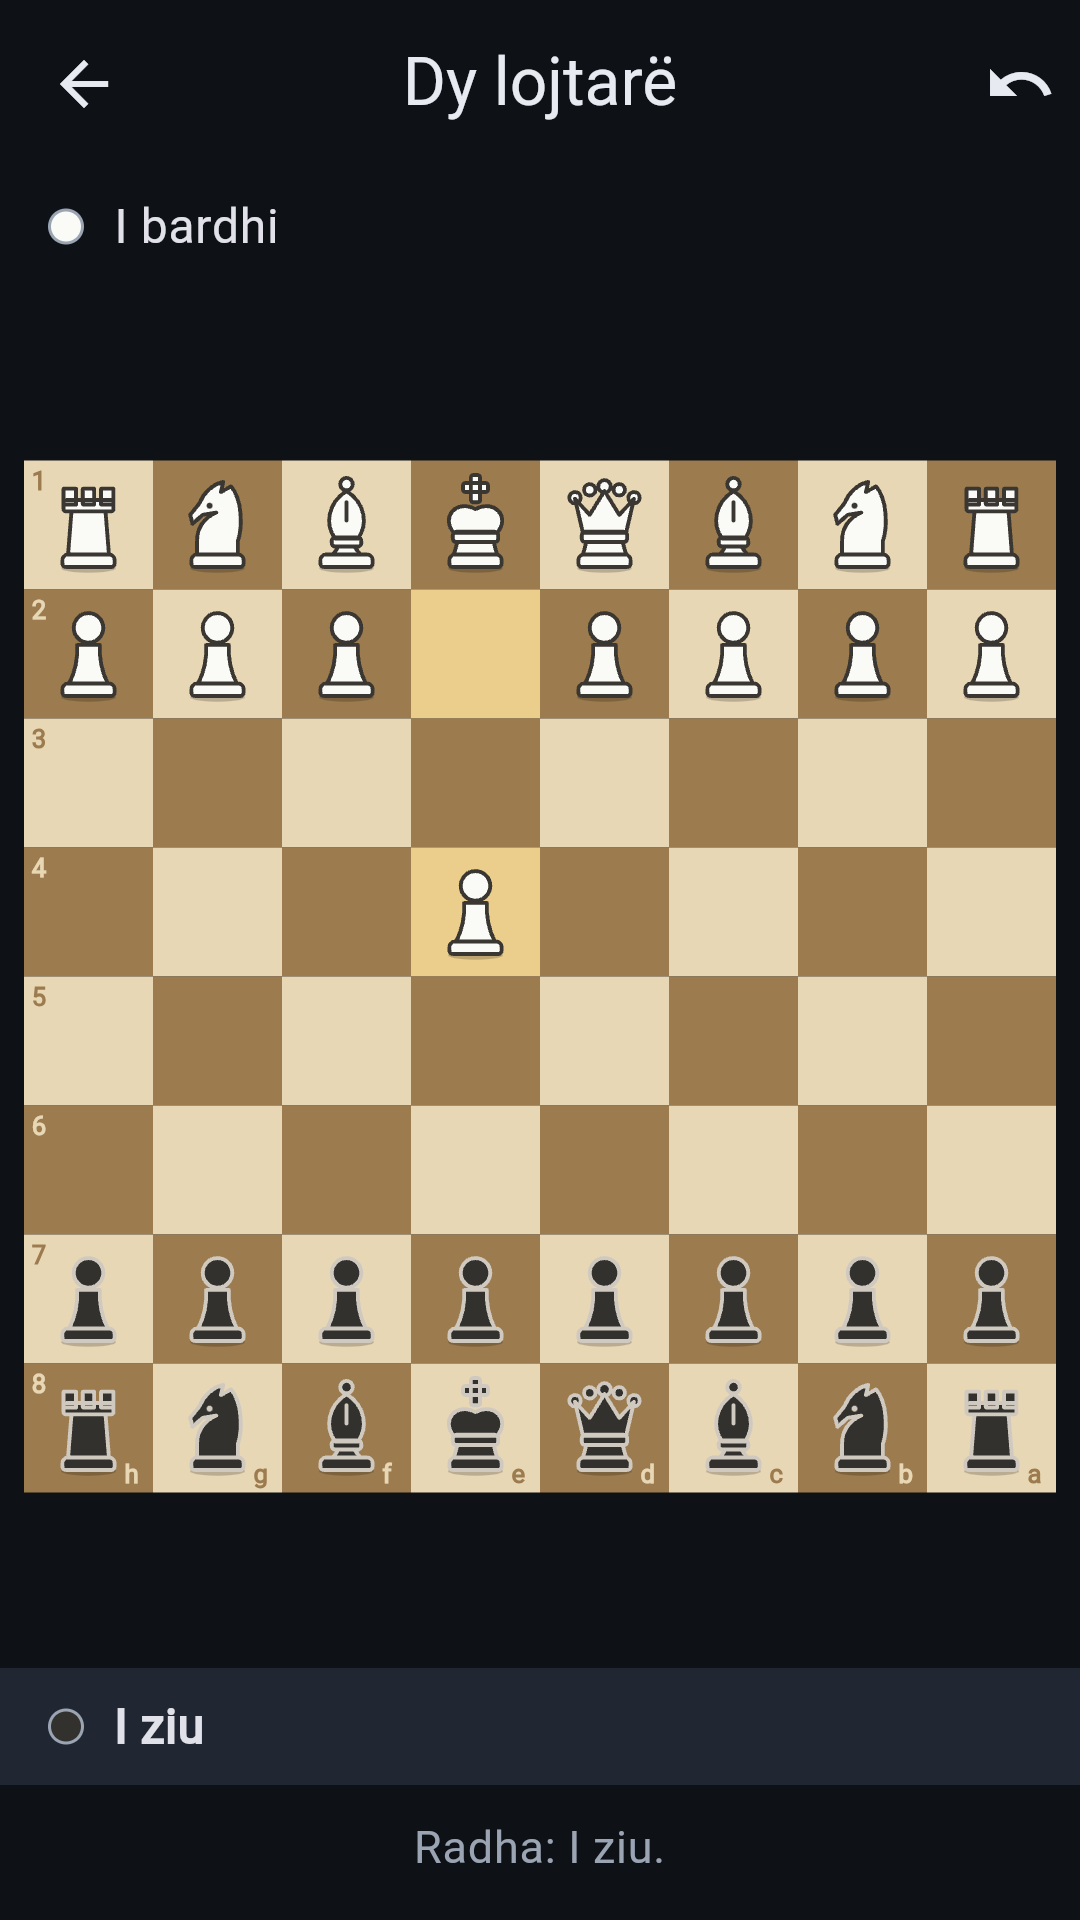
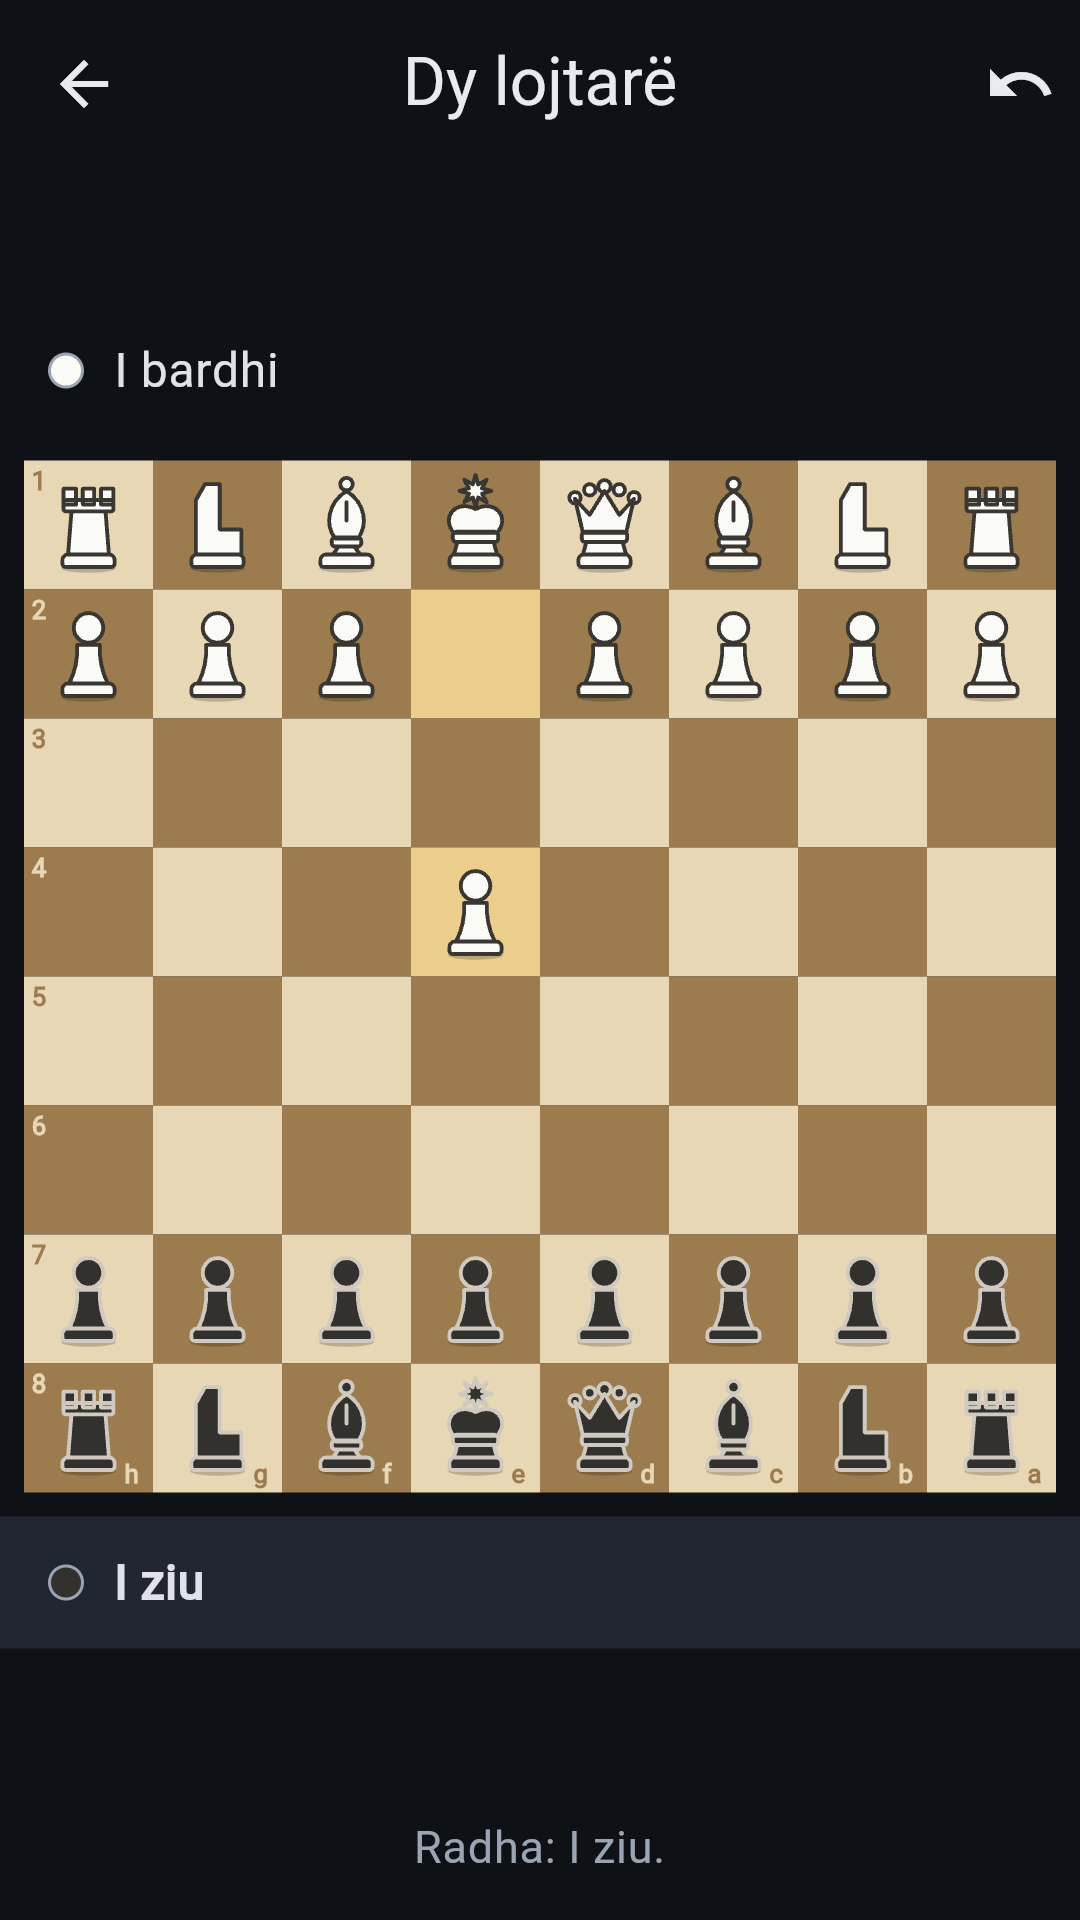
Mat! 2.3.0: figura pa qenie të gjalla, ikonë e re, kopjimi i PGN-së
🕌 Katër vende mbanin figura që nuk duhet të dalin me emrin e autorit:

1. **Mbreti kishte një KRYQ** mbi kurorë — shenja fetare e një feje tjetër,
   e vizatuar me dorë te «_king()». Tani mban yllin tetëcepësh (shems).
2. **Kalorësi ishte kokë kali me SY** (një rreth i vizatuar veç te «_details»).
   Tani është vetë lëvizja: dy hapa lart, një anash. Mbetet e vetmja siluetë
   asimetrike te tabela, ndaj njihet edhe te 36 pikselë.
3. **Ikona e Play-it ishte glifi ♞** — kokë kali me sy e vrimë hunde, sa
   gjysma e ikonës. Tani është mbreti me yll: aplikacioni quhet «Mat!», dhe
   mati është mbreti. Kalorësi i ri, i vetëm në një kuti 48-pikselëshe,
   lexohej si shkronjë «L», jo si shah.
4. **Ikonat e menysë** ishin «smart_toy» (fytyrë roboti, me sy e gojë) dhe
   «people» (dy bysta njerëzish) — pikërisht ato dilnin te pamjet e dyqanit.
   Tani një çip dhe dy shigjeta.

Grafika e veçorive titullohej ende «SpaceChess»; emri te Play është «Mat!»
që nga 30-07. Ishte vendi i pestë ku emri i vjetër kishte mbetur.

Pamjet e ekranit u rimorën nga aplikacioni i VËRTETË (Flutter web në Chrome
pa ekran, 1080×1920), pra tregojnë figurat e reja.

I ri: «Kopjo lëvizjet» te shiriti i sipërm — PGN me shtatë etiketat e
detyrueshme; trupi vjen nga «moveText» i motorit, që është tashmë i testuar.

diff --git a/spacechess_app/lib/board/pieces.dart b/spacechess_app/lib/board/pieces.dart
@@ -1,3 +1,5 @@
+import 'dart:math';
+
 import 'package:flutter/material.dart';
 import 'package:spacechess_engine/spacechess_engine.dart';
 
@@ -114,25 +116,39 @@ Path _bishop() {
   return p;
 }
 
+/// 🕌 Ishte një kokë kali, me sy. Tani është **vetë lëvizja e kalorësit**: dy
+/// hapa lart, një anash — një «L» e trashë, e pjerrët nga maja.
+///
+/// Nuk humb asgjë. Silueta mbetet e vetmja asimetrike te tabela, ndaj lexohet
+/// te 36 pikselë edhe më shpejt se koka e kalit (asnjë figurë tjetër nuk ka
+/// krah anash), dhe tani forma e shpjegon lëvizjen në vend që ta zbukurojë.
 Path _knight() {
-  // Një kokë kali e kthyer majtas. Vijat janë të pakta me qëllim: një siluetë e
-  // qartë lexohet te 36 pikselë, ku çdo hollësi bëhet baltë.
   final Path p = Path()
-    ..moveTo(32, 76)
-    ..lineTo(32, 64)
-    ..cubicTo(32, 52, 38, 44, 49, 39)
-    ..lineTo(37, 41)
-    ..lineTo(28, 49)
-    ..lineTo(26, 41)
-    ..lineTo(34, 31)
-    ..cubicTo(38, 21, 46, 14, 55, 12)
-    ..lineTo(53, 21)
-    ..lineTo(62, 16)
-    ..cubicTo(72, 28, 72, 52, 68, 64)
-    ..lineTo(68, 76)
+    ..moveTo(31, 76)
+    ..lineTo(31, 28)
+    ..lineTo(39, 14)
+    ..lineTo(52, 14)
+    ..lineTo(52, 54)
+    ..lineTo(71, 54)
+    ..lineTo(71, 76)
     ..close();
   _addBase(p);
   return p;
+}
+
+/// Yll tetëcepësh (*shems*), i vizatuar në drejtim orar që të bashkohet me
+/// nënshtigjet e tjera nën `PathFillType.nonZero` — një yll në drejtim të
+/// kundërt do të hapte vrimë në vend që të mbushte.
+Path _yllTetecepesh(Offset c, double jashtem, double brendshem) {
+  final Path p = Path();
+  const int cepa = 8;
+  for (int i = 0; i < cepa * 2; i++) {
+    final double r = i.isEven ? jashtem : brendshem;
+    final double kend = -pi / 2 + i * pi / cepa;
+    final Offset pika = Offset(c.dx + r * cos(kend), c.dy + r * sin(kend));
+    i == 0 ? p.moveTo(pika.dx, pika.dy) : p.lineTo(pika.dx, pika.dy);
+  }
+  return p..close();
 }
 
 Path _queen() {
@@ -163,10 +179,11 @@ Path _queen() {
 
 Path _king() {
   final Path p = Path()
-    // Kryqi mbi kurorë — e vetmja shenjë që e dallon mbretin nga mbretëresha
-    // me një vështrim.
-    ..addRRect(RRect.fromLTRBR(46, 6, 54, 30, const Radius.circular(2)))
-    ..addRRect(RRect.fromLTRBR(39, 13, 61, 21, const Radius.circular(2)))
+    // 🕌 Mbi kurorë rrinte një KRYQ. Tani rri ylli tetëcepësh: e njëjta punë
+    // vizuale — një majë e vetme, e madhe, që e dallon mbretin nga pesë topat e
+    // mbretëreshës me një vështrim — pa shenjën fetare të një feje tjetër.
+    // Maja e poshtme e yllit takon kupolën te y≈34, ndaj figura mbetet e tërë.
+    ..addPath(_yllTetecepesh(const Offset(50, 20), 14, 6.2), Offset.zero)
     ..moveTo(31, 57)
     ..cubicTo(19, 43, 33, 27, 50, 36)
     ..cubicTo(67, 27, 81, 43, 69, 57)
@@ -187,12 +204,9 @@ void _details(Canvas canvas, int type, Paint stroke) {
   switch (type) {
     case bishop:
       canvas.drawLine(const Offset(50, 30), const Offset(50, 46), stroke);
-    case knight:
-      canvas.drawCircle(
-        const Offset(43, 33),
-        2.6,
-        Paint()..color = stroke.color,
-      );
+    // 🕌 Kalorësi kishte një sy (një rreth te koka e kalit). U hoq bashkë me
+    // kokën: forma e re është gjeometri, dhe një sy mbi të do të ishte pikërisht
+    // gjëja që u hoq, e ngjitur prapa.
     default:
       break;
   }

diff --git a/spacechess_app/lib/game/game_page.dart b/spacechess_app/lib/game/game_page.dart
@@ -274,6 +274,43 @@ class _GamePageState extends State<GamePage> {
   /// lojtar që pranoi të shohë një reklamë nuk duhet ndëshkuar për një rrjet që
   /// nuk u përgjigj — dhe pa internet (ku loja kundër kompjuterit punon fare
   /// mirë) përndryshe kthimi do të bllokohej përgjithmonë pas lëvizjes së tretë.
+  /// Lëvizjet si PGN, në kujtesë.
+  ///
+  /// Trupi (`moveText`) vjen nga motori, që e mban SAN-in vetë; këtu shtohen
+  /// vetëm shtatë etiketat e detyrueshme të «Seven Tag Roster», pa të cilat
+  /// teksti hapet te disa vegla shahu dhe te të tjerat jo. Data shkruhet me
+  /// pikat e PGN-së (`2026.07.31`), jo me vija.
+  Future<void> _kopjoPgn() async {
+    final DateTime tani = DateTime.now();
+    String dy(int n) => n.toString().padLeft(2, '0');
+    final String kunder = widget.vsComputer
+        ? 'Mat! (${AiLevel.byId(widget.level).name})'
+        : 'Lojtari 2';
+    final bool bardhNjeriu = !widget.vsComputer || widget.humanColour == white;
+    final String pgn = <String>[
+      '[Event "Mat!"]',
+      '[Site "chess.spacecode.tech"]',
+      '[Date "${tani.year}.${dy(tani.month)}.${dy(tani.day)}"]',
+      '[Round "-"]',
+      '[White "${bardhNjeriu ? 'Lojtari' : kunder}"]',
+      '[Black "${bardhNjeriu ? kunder : 'Lojtari'}"]',
+      '[Result "${_pgnResult()}"]',
+      '',
+      '${_game.moveText} ${_pgnResult()}',
+    ].join('\n');
+
+    await Clipboard.setData(ClipboardData(text: pgn));
+    if (!mounted) return;
+    ScaffoldMessenger.of(context)
+      ..clearSnackBars()
+      ..showSnackBar(const SnackBar(content: Text('Lëvizjet u kopjuan')));
+  }
+
+  /// `*` do të thotë «e papërfunduar» te PGN-ja dhe është përgjigjja e saktë
+  /// për një lojë që vazhdon — jo barazim. Kur loja ka mbaruar, vargu vjen
+  /// gati nga motori (`1-0` / `0-1` / `1/2-1/2`).
+  String _pgnResult() => _game.status.result ?? '*';
+
   Future<void> _undo() async {
     if (_game.moves.isEmpty || _thinking) return;
 
@@ -356,6 +393,12 @@ class _GamePageState extends State<GamePage> {
               ? AiLevel.byId(widget.level).name
               : 'Dy lojtarë'),
           actions: <Widget>[
+            IconButton(
+              tooltip: 'Kopjo lëvizjet (PGN)',
+              icon: const Icon(Icons.content_copy_outlined),
+              onPressed:
+                  _game.moves.isEmpty ? null : () => unawaited(_kopjoPgn()),
+            ),
             IconButton(
               tooltip: 'Kthe një lëvizje',
               icon: const Icon(Icons.undo),

diff --git a/spacechess_app/lib/home_page.dart b/spacechess_app/lib/home_page.dart
@@ -66,9 +66,15 @@ class _HomePageState extends State<HomePage> {
                       const SizedBox(height: 12),
                     ],
 
+                    // 🕌 Ikonat e kësaj menyje nuk kanë qenie të gjalla. Ishin
+                    // `smart_toy` (fytyrë roboti, me sy e gojë) dhe `people`
+                    // (dy bysta njerëzish) — pikërisht ato dilnin te pamjet e
+                    // Play-it. Zëvendësimet mbajnë të njëjtin kuptim pa figurë:
+                    // një çip për kompjuterin, dy shigjeta për radhën që kalon
+                    // nga njëri lojtar te tjetri. Mos i kthe.
                     FilledButton.icon(
                       onPressed: () => unawaited(_chooseLevel()),
-                      icon: const Icon(Icons.smart_toy_outlined),
+                      icon: const Icon(Icons.memory_rounded),
                       label: const Text('Kundër kompjuterit'),
                     ),
                     const SizedBox(height: 12),
@@ -78,7 +84,7 @@ class _HomePageState extends State<HomePage> {
                         colour: white,
                         variant: _variantOf(widget.prefs.variant),
                       ),
-                      icon: const Icon(Icons.people_outline),
+                      icon: const Icon(Icons.swap_horiz_rounded),
                       label: const Text('Dy lojtarë, një pajisje'),
                     ),
                     const SizedBox(height: 12),

diff --git a/spacechess_app/lib/online/lobby_page.dart b/spacechess_app/lib/online/lobby_page.dart
@@ -107,7 +107,7 @@ class _LobbyPageState extends State<LobbyPage> {
           mainAxisSize: MainAxisSize.min,
           children: <Widget>[
             ListTile(
-              leading: const Icon(Icons.person_outline),
+              leading: const Icon(Icons.label_outline),
               title: const Text('Llogaria'),
               subtitle: Text(widget.prefs.name.isEmpty
                   ? 'Mysafir — pa emër, pa email, pa fjalëkalim'
